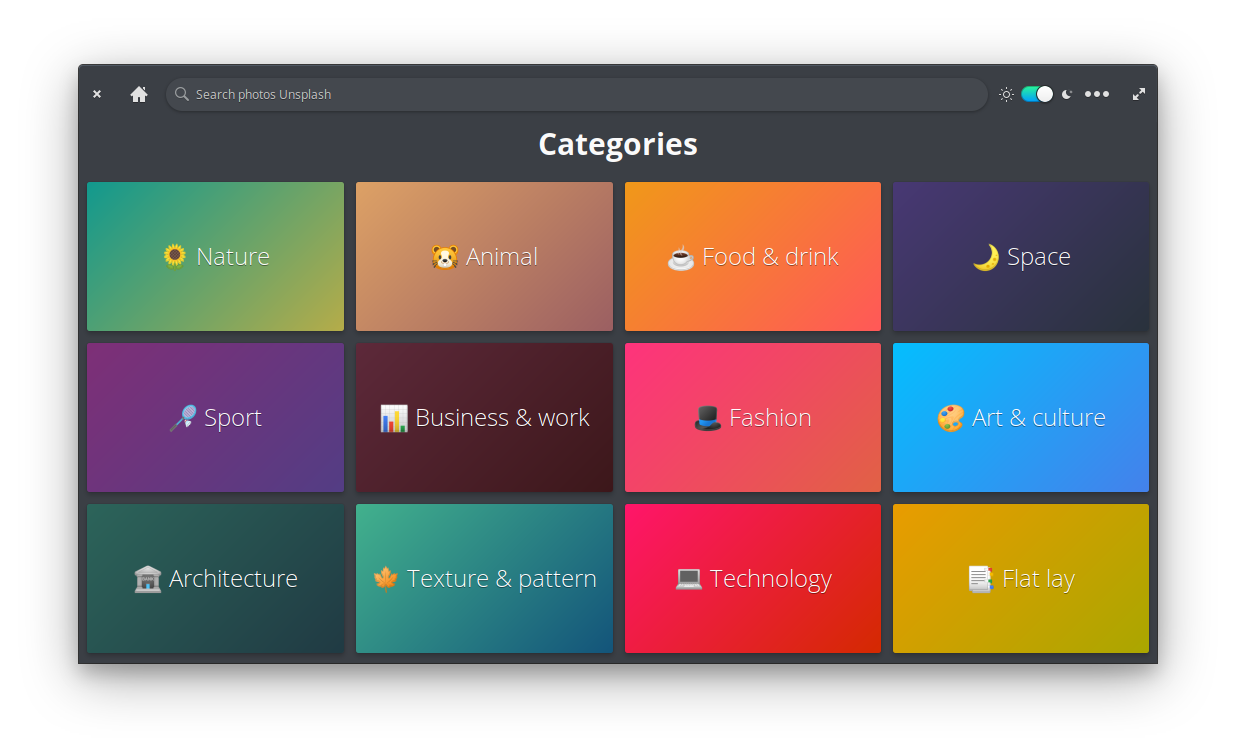
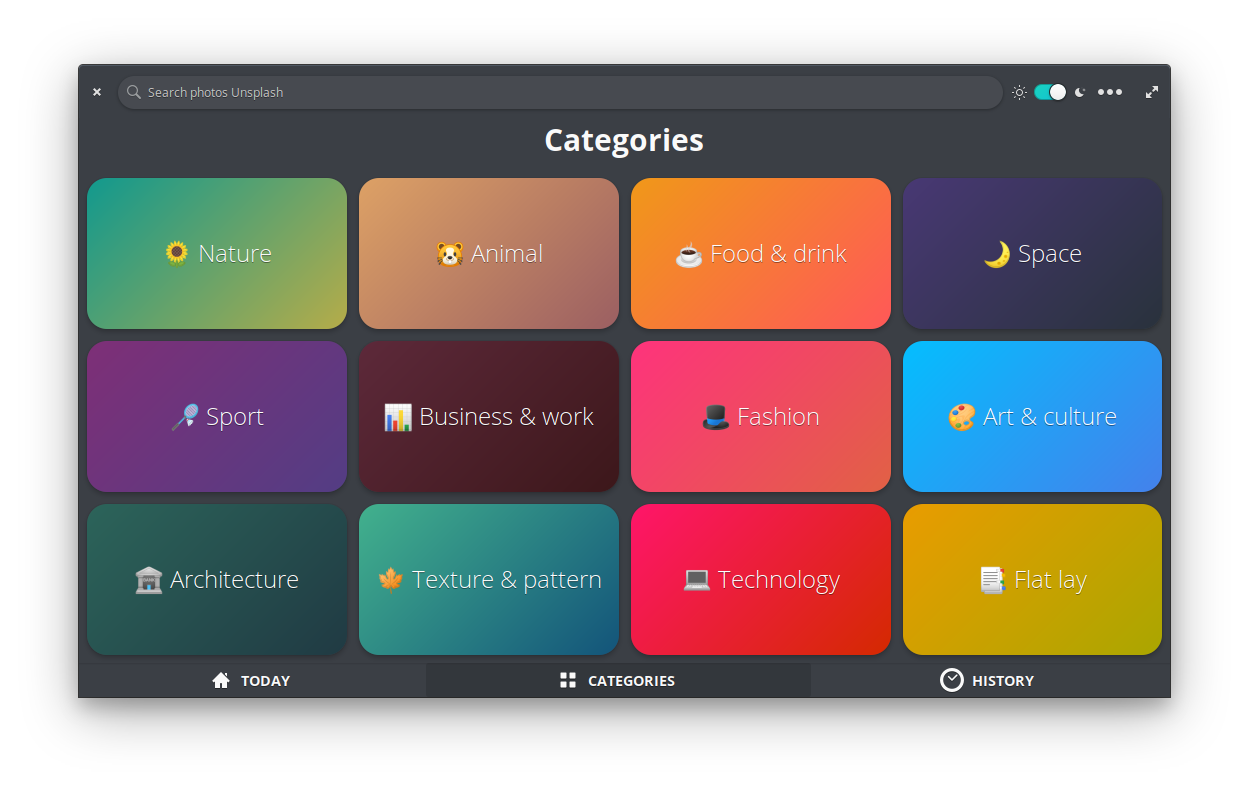
[NEW] Update screenshots and version in README and debian hangelog

diff --git a/README.md b/README.md
@@ -15,7 +15,7 @@
 
 <p align="center">
   <a href="https://github.com/calo001/fondo">
-    <img src="https://img.shields.io/badge/Version-1.2.4-orange.svg">
+    <img src="https://img.shields.io/badge/Version-1.3.0-orange.svg">
   </a>
   <a href="https://github.com/calo001/fondo/blob/master/LICENSE.md">
     <img src="https://img.shields.io/badge/License-GPL%20v3-blue.svg">
